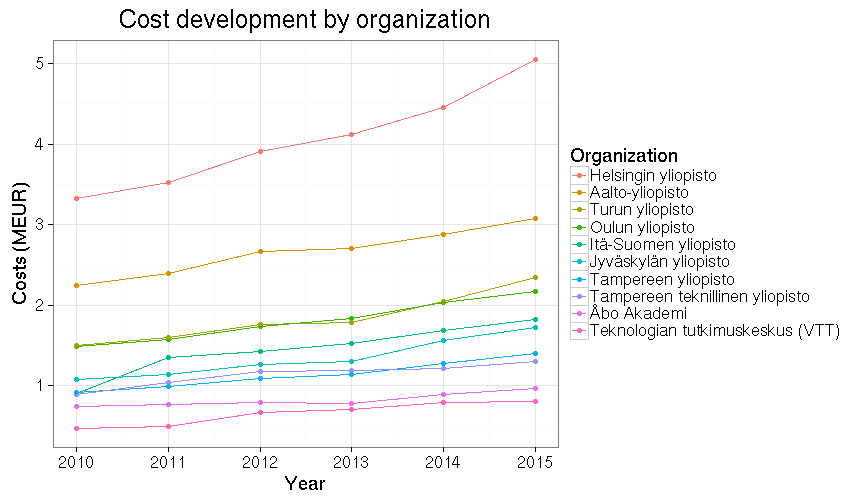
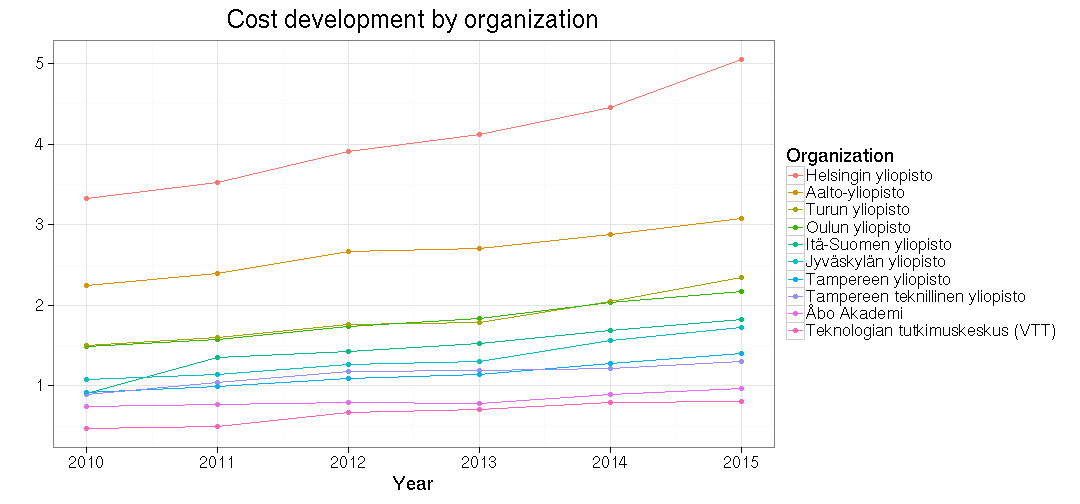
ok

diff --git a/20160610/foi.md b/20160610/foi.md
@@ -57,7 +57,7 @@ type](table/cost_by_type.csv), organization type, and [subscription
 category](table/cost_by_category.csv).
 
 
-<img src="figure/foi-totalcosts-1.png" title="plot of chunk foi-totalcosts" alt="plot of chunk foi-totalcosts" width="430px" /><img src="figure/foi-totalcosts-2.png" title="plot of chunk foi-totalcosts" alt="plot of chunk foi-totalcosts" width="430px" />
+<img src="figure/foi-totalcosts-1.png" title="plot of chunk foi-totalcosts" alt="plot of chunk foi-totalcosts" width="430px" />
 
 
 ### Costs by publisher
@@ -71,8 +71,7 @@ Interestingly, over one third of the total costs go to Elsevier, which is often 
 
 
 
-The total costs paid to scientific publishers by Finland increase roughly 10% per year (annual increase is indicated in the left figure). The top-10 publishers (out of 244) correspond to 77% of the overall costs.
-
+The total costs paid to scientific publishers by Finland have increased roughly 10% per year in 2010-2015 (annual increase is indicated in the left figure). The top-10 publishers (out of 244) correspond to 77% of the overall costs (right figure). The full [annual costs by publisher](table/cost_by_publisher_year.csv) are in a separate table.
 
 <img src="figure/foi-costbytime-1.png" title="plot of chunk foi-costbytime" alt="plot of chunk foi-costbytime" width="840px" />
 
@@ -81,11 +80,13 @@ The total costs paid to scientific publishers by Finland increase roughly 10% pe
 
 ### Costs by organization
 
- * 62 organizations ([table of annual costs by organization](table/cost_by_organization_year.csv))
 
 
-<img src="figure/foi-totalcosts2-1.png" title="plot of chunk foi-totalcosts2" alt="plot of chunk foi-totalcosts2" width="430px" />
+The Finnish data collection includes 62 organizations ([table of annual costs by organization](table/cost_by_organization_year.csv)). The universities (yliopisto) correspond to 80.4% of all costs (left figure); University of Helsinki has the highest total costs 2010-2015 (24.4 MEUR; right figure).
 
+<img src="figure/foi-totalcosts2d-1.png" title="plot of chunk foi-totalcosts2d" alt="plot of chunk foi-totalcosts2d" width="420px" /><img src="figure/foi-totalcosts2d-2.png" title="plot of chunk foi-totalcosts2d" alt="plot of chunk foi-totalcosts2d" width="420px" />
+
+As could be expected, the costs increase evenly across institutions. 
 
 ![plot of chunk foi-timebyorganization2](figure/foi-timebyorganization2-1.png)
 
